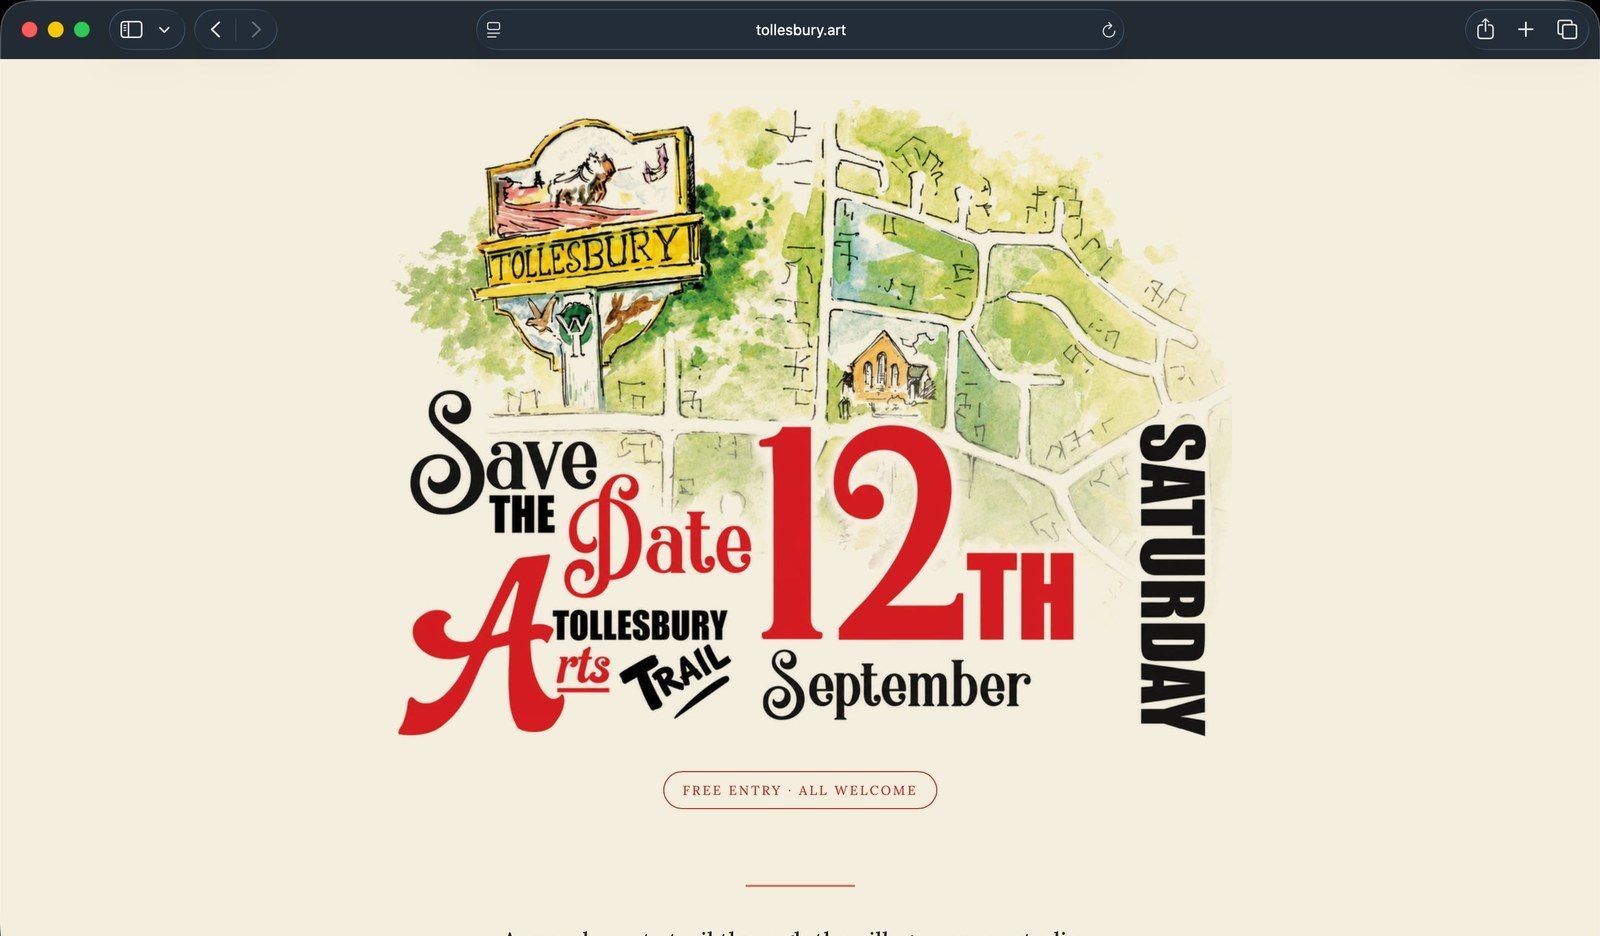
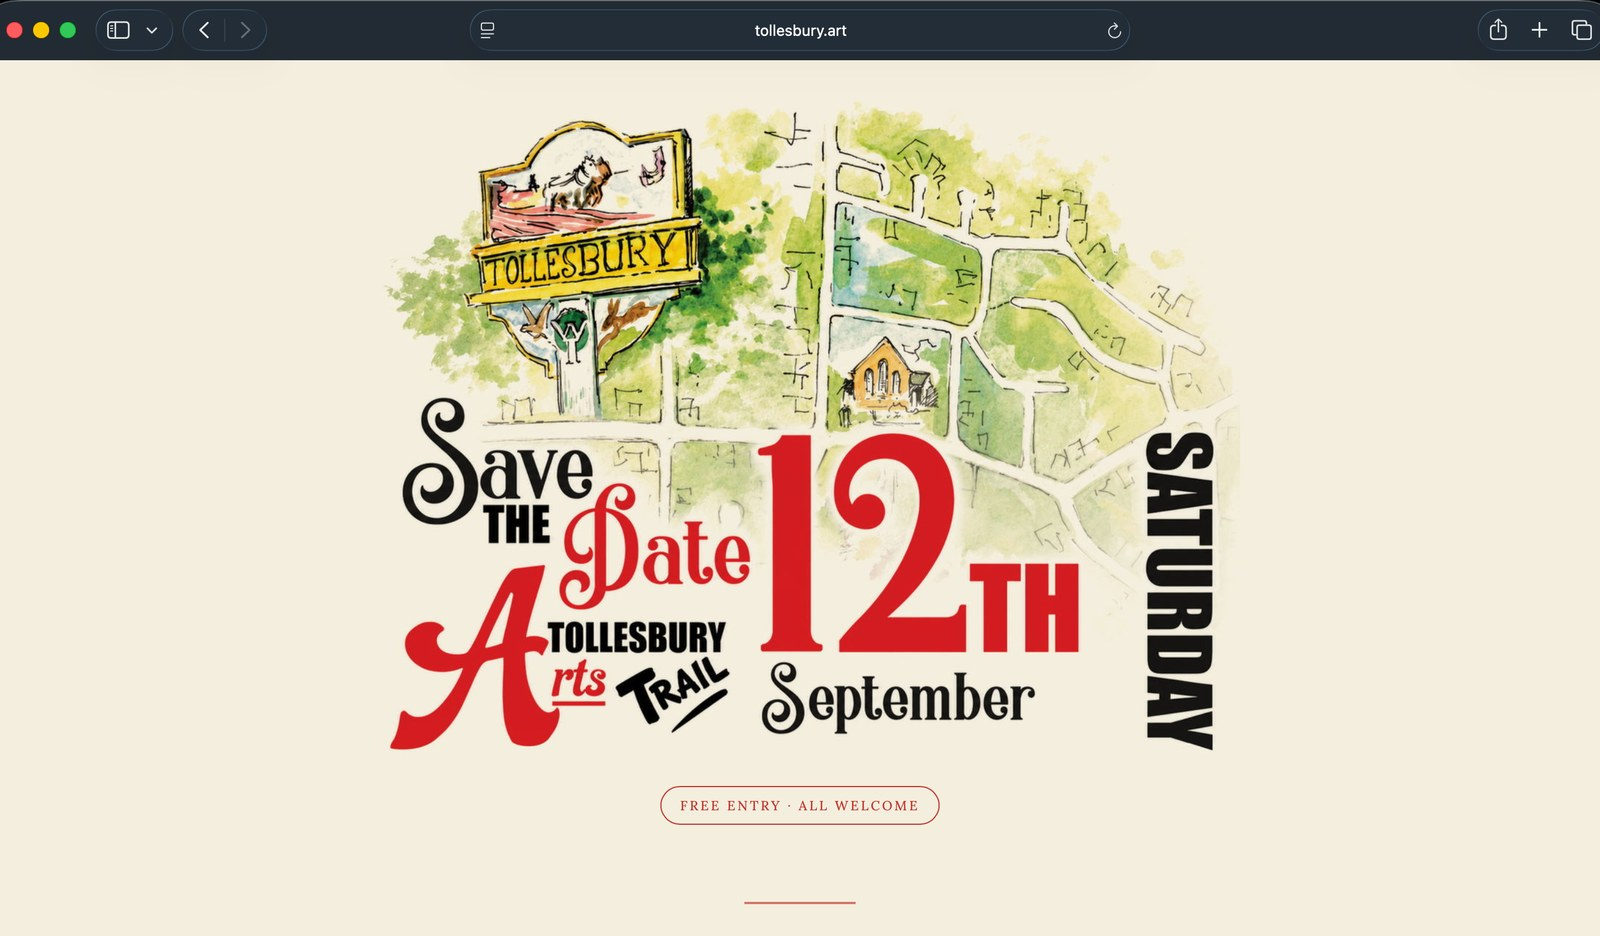
Screenshots: crop from the alpha channel, and script it
macOS window captures are RGBA with a wide transparent margin for the drop
shadow. Flattening turns it black, and I had been locating the window edge
by brightness, which is guesswork: the browser chrome is near-black too.
Worse, the trim loop tested left before right and stopped once a side was
clean, so it ate the left edge asymmetrically.

The alpha channel gives the window exactly. scripts/crop-screenshot.py now
does the whole job: alpha bounds, lift past the rounded bottom corners,
crop (never stretch) to 1600x936, then report the darkest edge pixel so a
bad crop is caught rather than shipped.

All eight project screenshots regenerated from their originals through it,
so they get identical treatment: every panel 368px, gap 0, source 1600x936,
none distorted.

Usage: python3 scripts/crop-screenshot.py <source.png> images/<name>.jpg

diff --git a/scripts/crop-screenshot.py b/scripts/crop-screenshot.py
@@ -1,0 +1,78 @@
+#!/usr/bin/env python3
+"""Crop a macOS window screenshot to the project-panel image standard.
+
+macOS window captures (Cmd-Shift-4, Space) are RGBA with a wide transparent
+margin holding the drop shadow. Flattening that to RGB turns it black, and
+guessing the window edge by brightness is unreliable: the browser chrome is
+near-black too. The alpha channel gives the window bounds exactly, so use it.
+
+Output is 1600x936 (the ratio every project panel screenshot shares), cropped
+rather than stretched, anchored to the top so the browser chrome is kept and
+the rounded bottom corners are cut away.
+
+    python3 scripts/crop-screenshot.py <source.png> images/<name>.jpg
+"""
+import sys
+from PIL import Image
+
+TARGET_W, TARGET_H = 1600, 936
+RATIO = TARGET_W / TARGET_H
+
+
+def window_box(im):
+    """Bounds of the opaque window, from alpha where present.
+
+    The bottom is lifted past the window's rounded corners: their transparent
+    arc flattens to black notches against the page content below. The top
+    corners are left alone, since they sit inside the dark browser chrome and
+    never show, which is how the other project screenshots are cropped.
+    """
+    if "A" in im.getbands():
+        solid = im.getchannel("A").point(lambda v: 255 if v > 250 else 0)
+        box = solid.getbbox()
+        if box:
+            l, t, r, b = box
+            radius = 0
+            while radius < (b - t) and solid.getpixel((l, b - 1 - radius)) == 0:
+                radius += 1
+            return (l, t, r, b - radius)
+    # already flattened: fall back to non-black content
+    return im.convert("L").point(lambda v: 255 if v >= 12 else 0).getbbox()
+
+
+def main(src, dst):
+    im = Image.open(src)
+    box = window_box(im)
+    win = im.convert("RGB").crop(box)
+    w, h = win.size
+
+    # match the target ratio by cropping, never by stretching
+    if round(w / RATIO) <= h:
+        win = win.crop((0, 0, w, round(w / RATIO)))        # trim the bottom
+    else:
+        tw = round(h * RATIO)                              # trim both sides evenly
+        win = win.crop(((w - tw) // 2, 0, (w - tw) // 2 + tw, h))
+
+    out = win.resize((TARGET_W, TARGET_H), Image.LANCZOS)
+    out.save(dst, "JPEG", quality=88, optimize=True, progressive=True)
+
+    def edge(pts):
+        vals = [sum(out.getpixel(p)) / 3 for p in pts]
+        return min(vals)
+
+    # skip the first rows: the window's rounded top corners are dark, but they
+    # sit inside the dark browser chrome and are invisible in the panel
+    CHROME = 24
+    left = edge([(1, y) for y in range(CHROME, TARGET_H, 20)])
+    right = edge([(TARGET_W - 2, y) for y in range(CHROME, TARGET_H, 20)])
+    bottom = edge([(x, TARGET_H - 2) for x in range(0, TARGET_W, 20)])
+    print(f"{src}\n  window {box} -> {win.size} -> {out.size}")
+    print(f"  darkest edge pixel: left {left:.0f}  right {right:.0f}  bottom {bottom:.0f}")
+    if min(left, right, bottom) < 12:
+        print("  WARNING: an edge is still pure black; check the crop")
+
+
+if __name__ == "__main__":
+    if len(sys.argv) != 3:
+        sys.exit(__doc__)
+    main(sys.argv[1], sys.argv[2])
